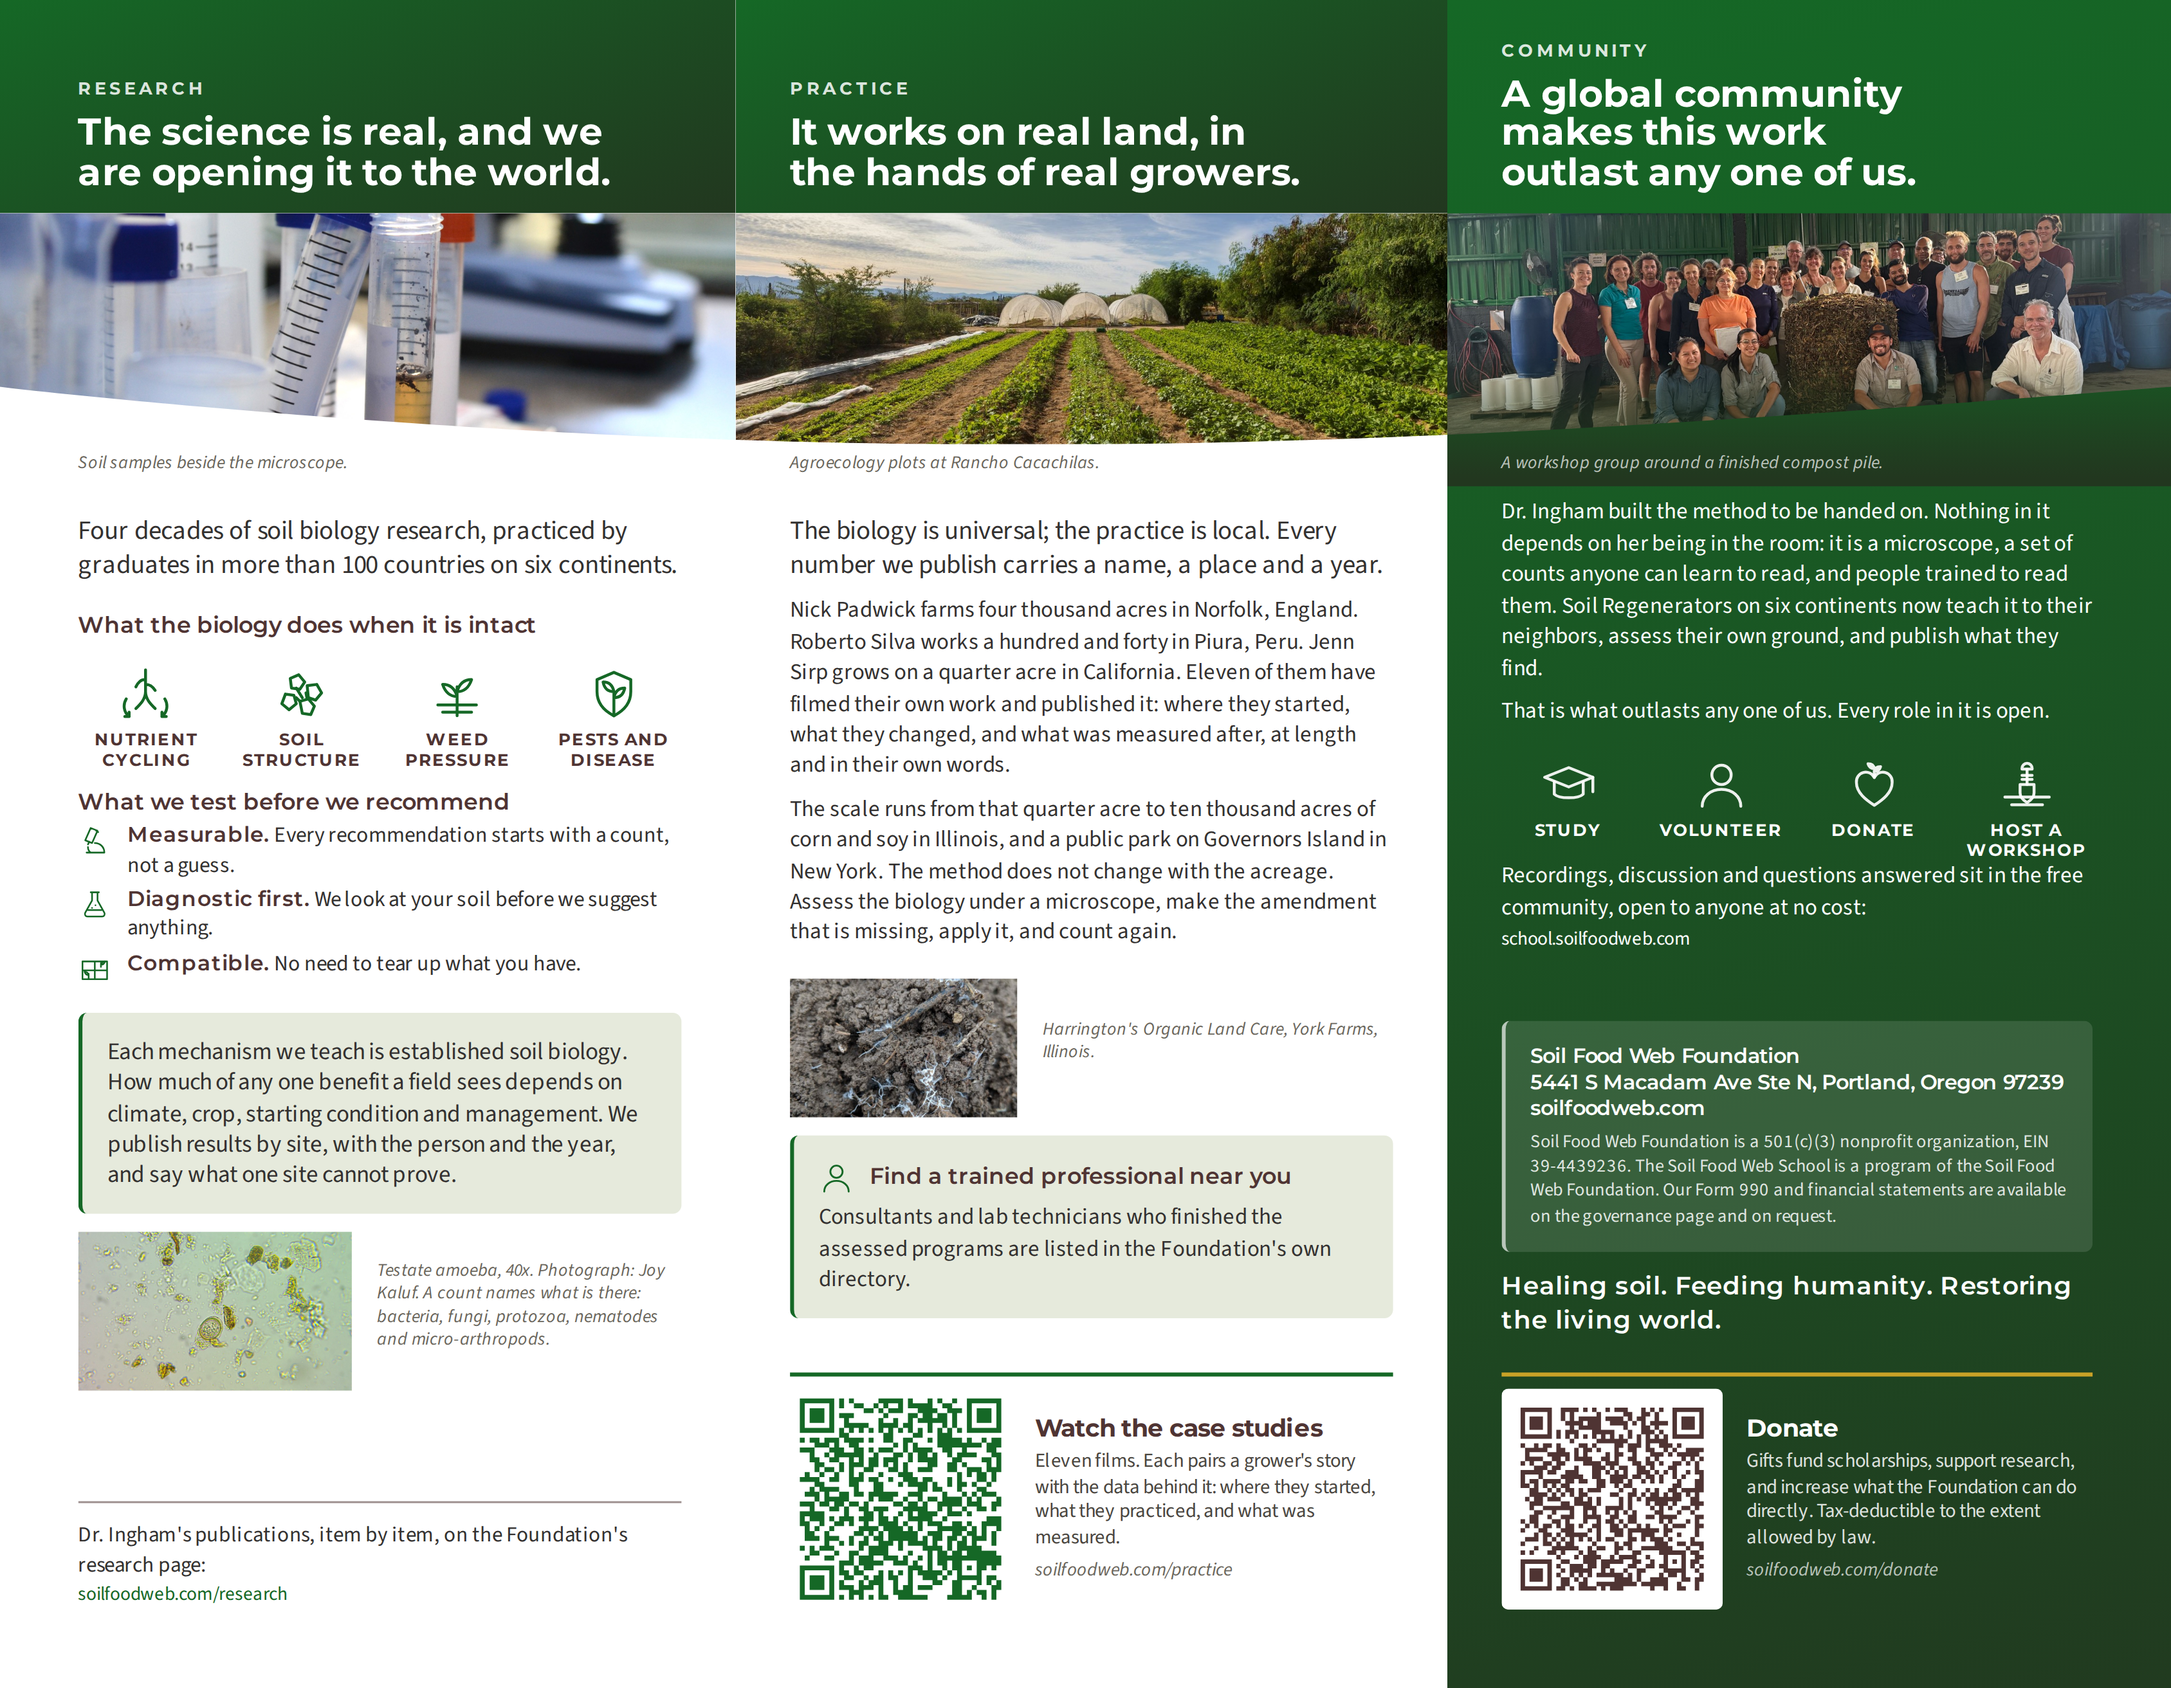
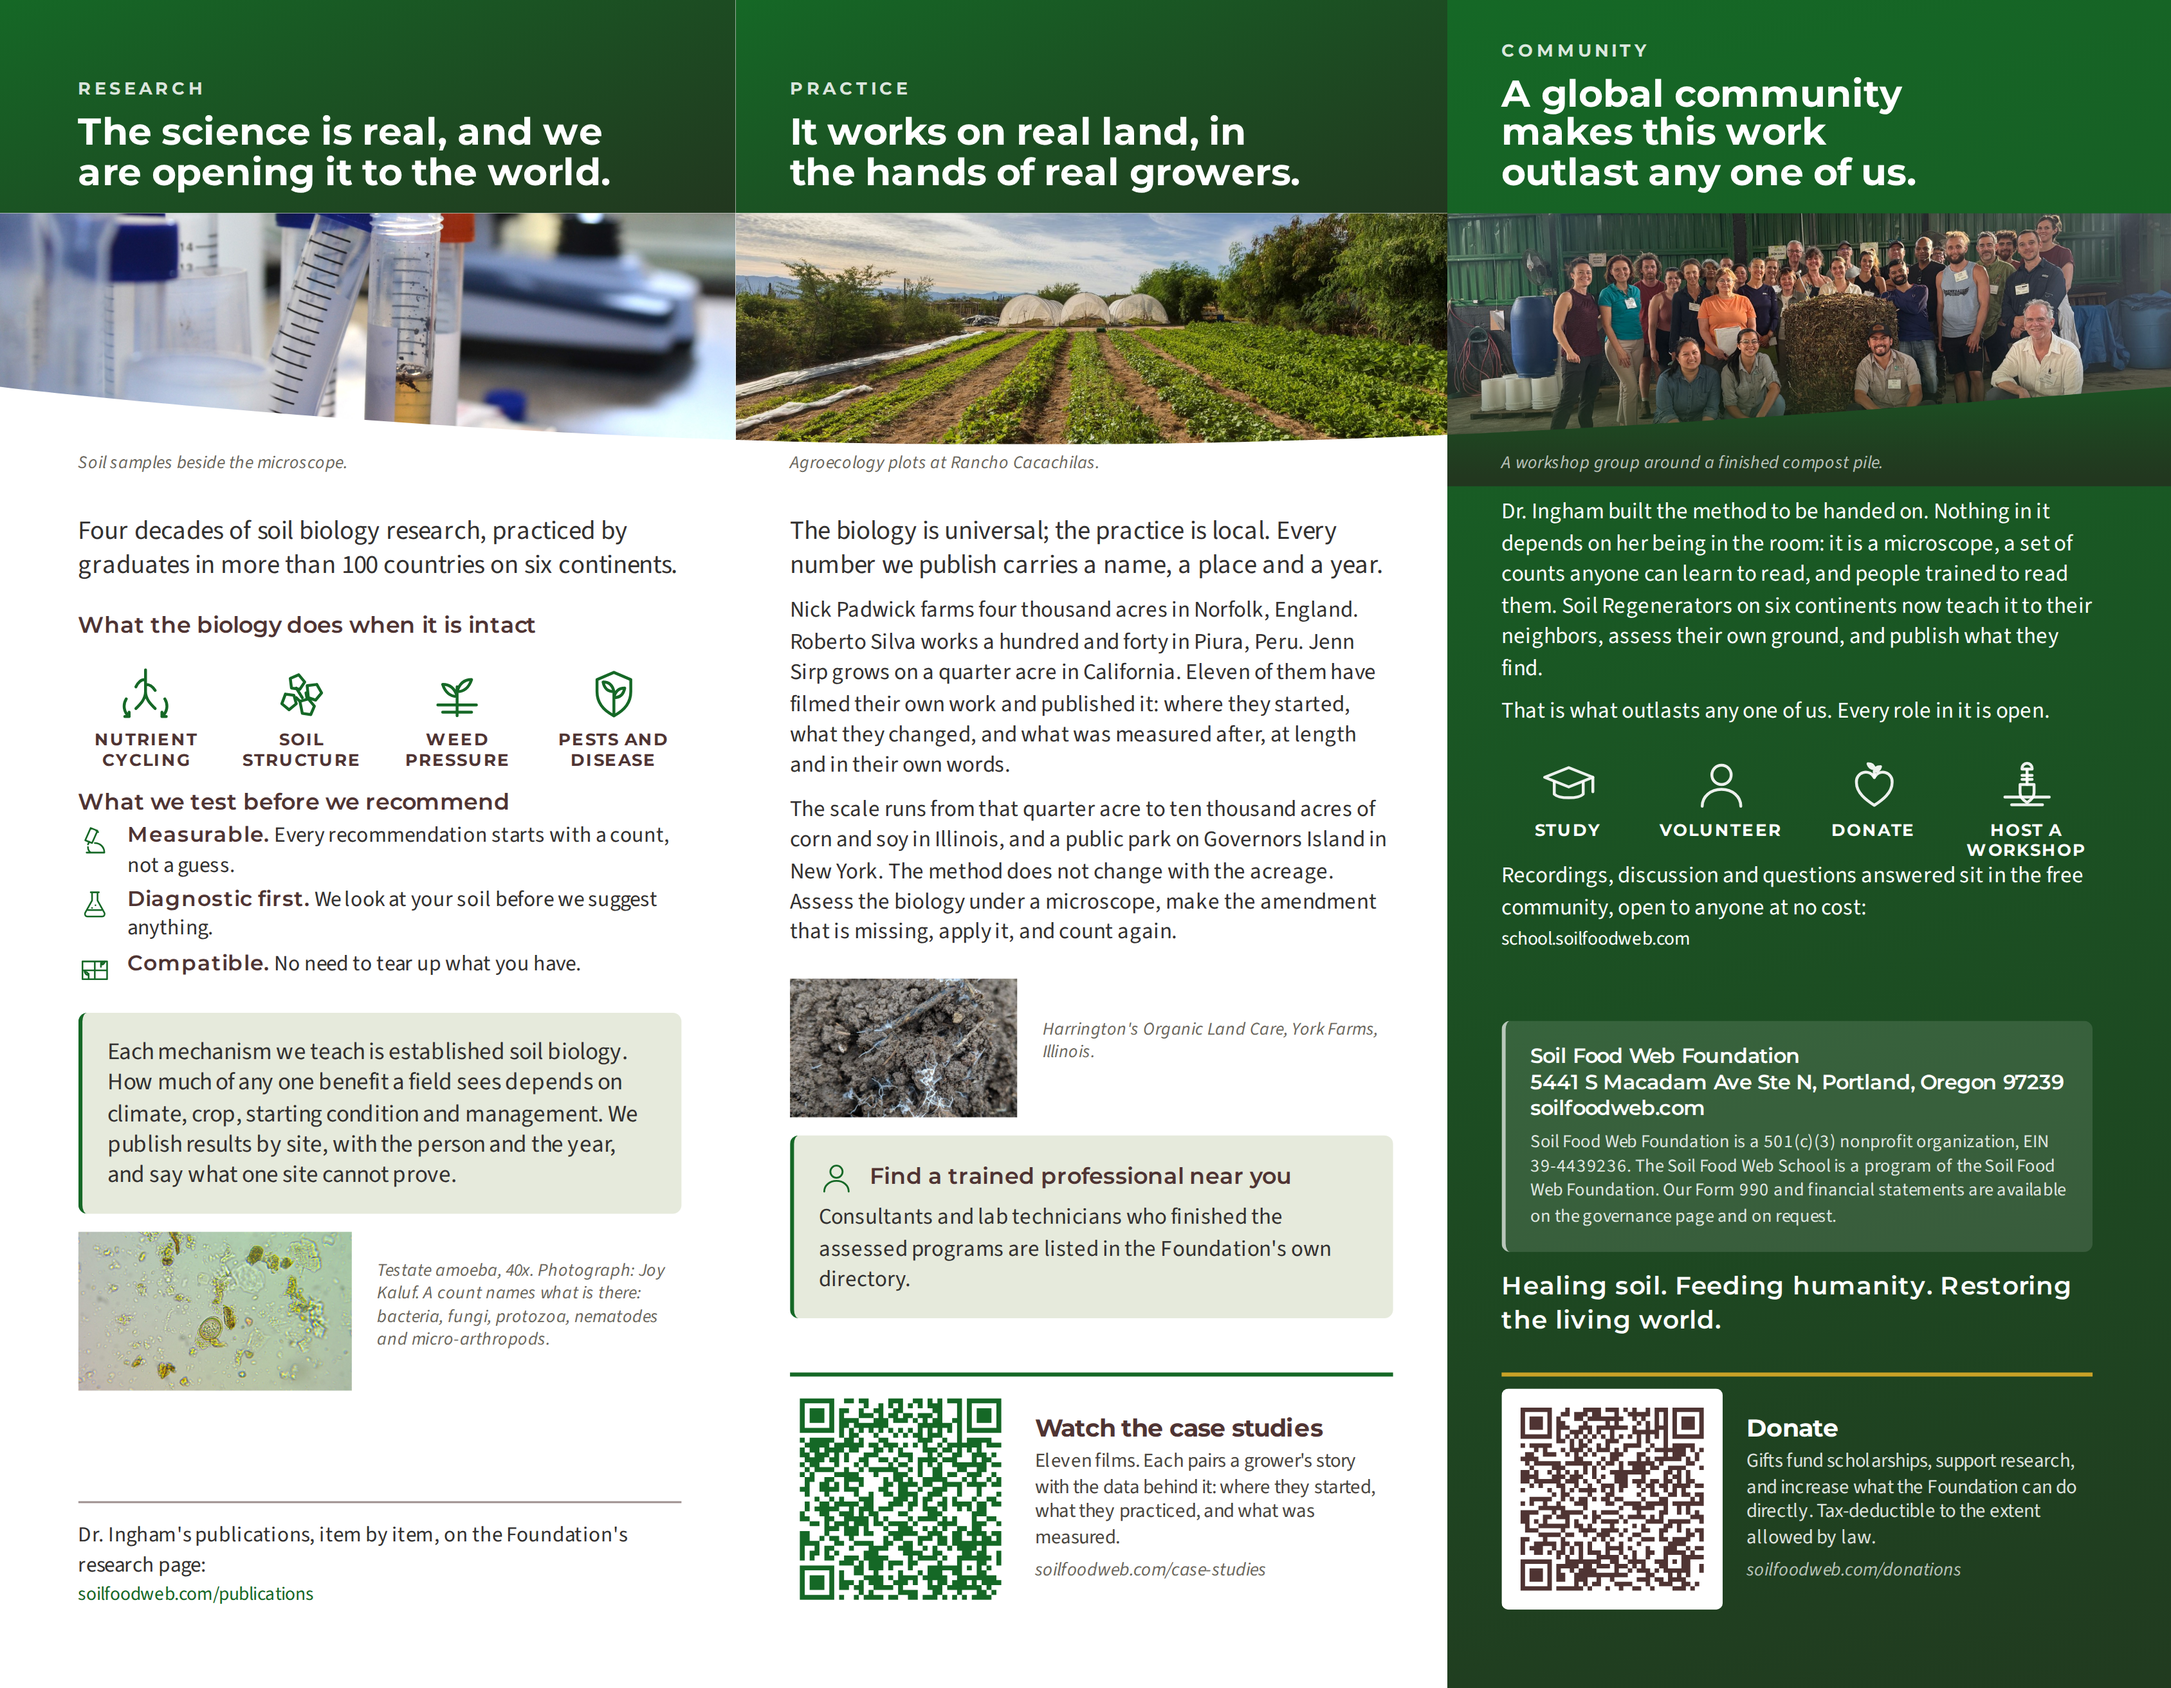
Trifold: print addresses that resolve today, not after launch
soilfoodweb.com still serves the old WordPress site. The rebuilt site's
paths do not exist there, so three printed addresses were 404s: the
research link at /research, the case study code at /practice#case-studies,
and the donate code at /donate. A printed code cannot be edited afterwards,
so this would have shipped dead.

vercel.json already 301s every current path to its new home, which makes
the current paths the correct thing to print: they resolve now and keep
resolving after the rebuild goes live. /publications, /case-studies,
/donations and /scholarship-opportunities all have redirect rules waiting
for them.

  research link   /research                -> /publications
  case studies    /practice#case-studies   -> /case-studies
  donate          /donate                  -> /donations
  scholarship     unchanged, already current

The human-readable address under each code now matches the code, which it
did not: the scholarship code said "soilfoodweb.com" under a code pointing
at /scholarship-opportunities.

make-qr.py carries a note not to modernise these paths back.

Claude-Session: https://claude.ai/code/session_01Dzy7foEQfuybsE73DxJgN3

Changed region(s): [[0.3733, 0.8122, 0.4667, 0.9684], [0.6844, 0.8122, 0.8089, 0.9371], [0.0933, 0.9371, 0.1244, 0.9684]]

diff --git a/Trifold Design/build/inside.html b/Trifold Design/build/inside.html
@@ -107,7 +107,7 @@
       <hr class="hr hr--strong">
       <p style="font-size:8pt">Dr. Ingham's publications, item by item, on the
         Foundation's research
-        page:<br><span class="url">soilfoodweb.com/research</span></p>
+        page:<br><span class="url">soilfoodweb.com/publications</span></p>
 
     </section>
 
@@ -160,7 +160,7 @@
           <div class="d">Eleven films. Each pairs a grower's story with the
             data behind it: where they started, what they practiced, and what
             was measured.</div>
-          <div class="h">soilfoodweb.com/practice</div>
+          <div class="h">soilfoodweb.com/case-studies</div>
         </div>
       </div>
 
@@ -221,7 +221,7 @@
           <div class="d">Gifts fund scholarships, support research, and increase
             what the Foundation can do directly. Tax-deductible to the extent
             allowed by law.</div>
-          <div class="h">soilfoodweb.com/donate</div>
+          <div class="h">soilfoodweb.com/donations</div>
         </div>
       </div>
 

diff --git a/Trifold Design/build/outside.html b/Trifold Design/build/outside.html
@@ -206,7 +206,7 @@
           <div class="t">Apply for a scholarship</div>
           <div class="d">Scholarships prioritize applicants in under-resourced
             regions.</div>
-          <div class="h">soilfoodweb.com</div>
+          <div class="h">soilfoodweb.com/scholarship-opportunities</div>
         </div>
       </div>
 

diff --git a/Trifold Design/build/make-qr.py b/Trifold Design/build/make-qr.py
@@ -18,6 +18,12 @@ OUT.mkdir(exist_ok=True)
 # will actually read.
 BASE = "utm_source=trifold&utm_medium=print"
 
+# Every address printed here is a CURRENT soilfoodweb.com path, not a path on
+# the rebuilt site. The rebuild is not live yet, so /research, /practice and
+# /donate are 404s today and a printed code cannot be edited later. vercel.json
+# already 301s each of these to its new home, so they resolve now and keep
+# resolving after launch. Do not "modernise" them.
+
 CODES = {
     # panel 6, Community. --green, Food Web Green.
     "community": (
@@ -38,17 +44,17 @@ CODES = {
     ),
     # panel 5, Practice. --green. The eleven case study films, which is where
     # a reader who believes the practice panel wants to go next.
+    # 301s to /practice#case-studies.
     "case-studies": (
-        # The fragment goes last. Written the other way round the whole UTM
-        # tail lands inside the fragment and no analytics ever sees it.
-        f"https://soilfoodweb.com/practice?{BASE}&utm_content=case_studies#case-studies",
+        f"https://soilfoodweb.com/case-studies?{BASE}&utm_content=case_studies",
         "#156826",
     ),
     # panel 6, Community. --soil, not --gold: the brand's gold is #C9A227,
     # which against white gives a code a scanner has to work for. The gold
     # appears on the rule above the code instead, where nothing has to read it.
+    # 301s to /donate.
     "donate": (
-        f"https://soilfoodweb.com/donate?{BASE}&utm_content=donate",
+        f"https://soilfoodweb.com/donations?{BASE}&utm_content=donate",
         "#4F3433",
     ),
 }
